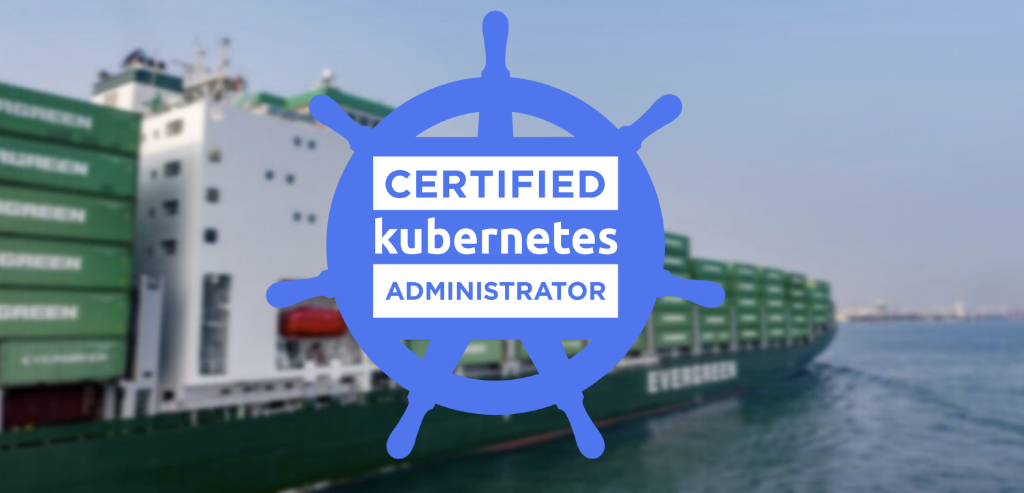
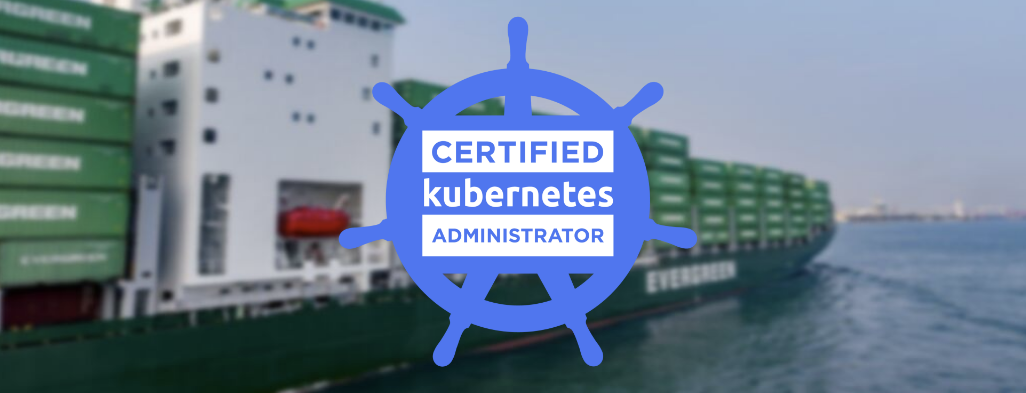
intro upd

diff --git a/README.md b/README.md
@@ -3,7 +3,7 @@
 
 
 <p align="center">
-  <img width="780" height="360" src="img/intro.png">
+  <img width="780" height="320" src="img/intro.png">
 </p>
 
 This repository contains definitions, tips, sources, and many commands for practice and that I am currently using to prepare for my Certified Kubernetes Administrator exam.
